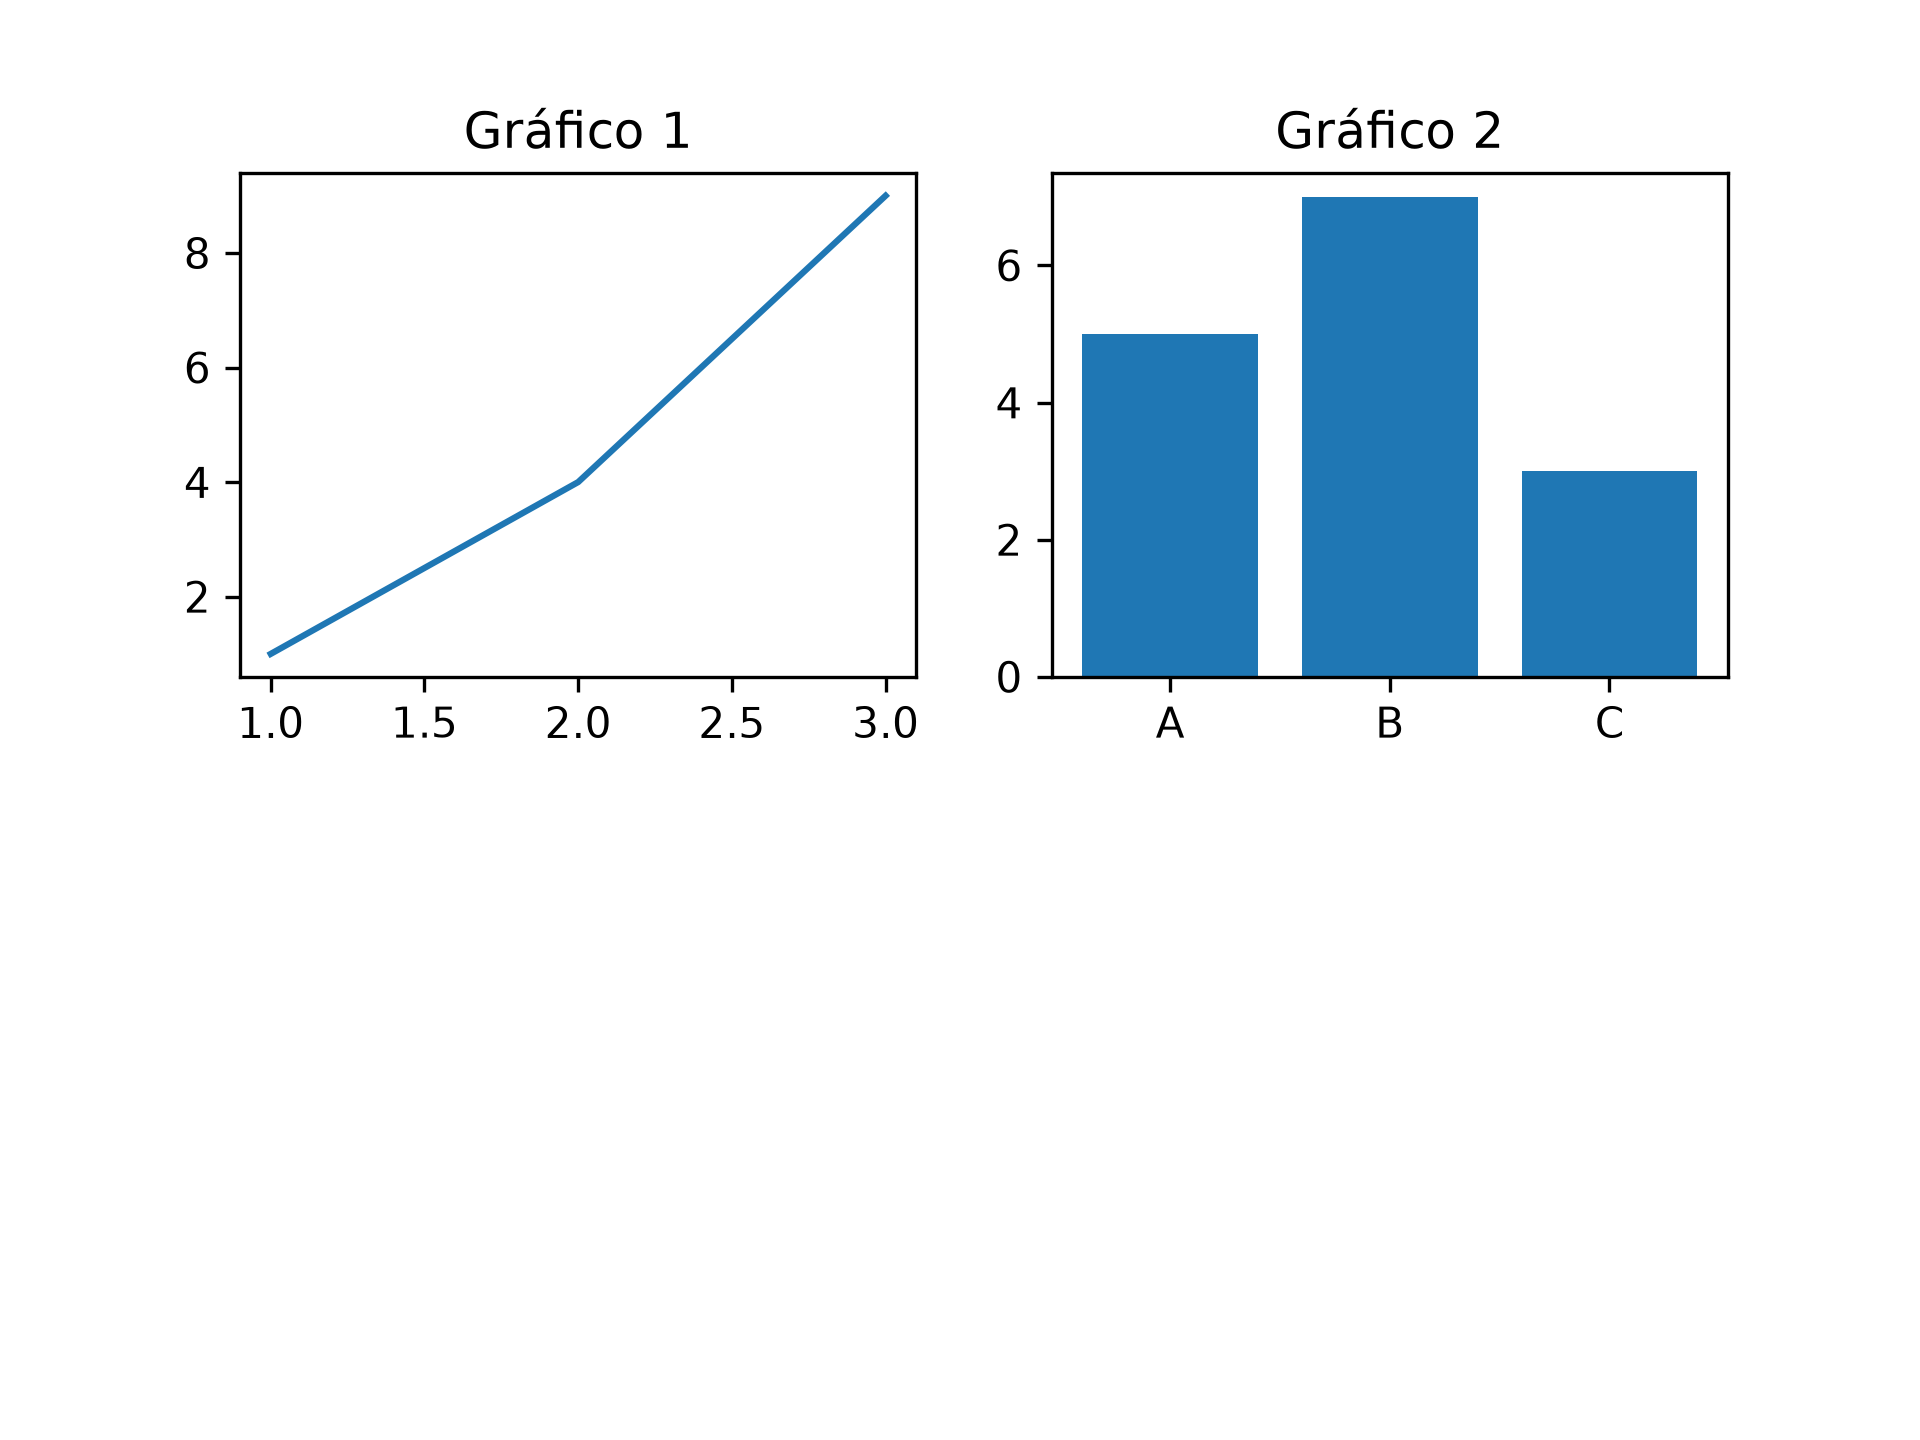
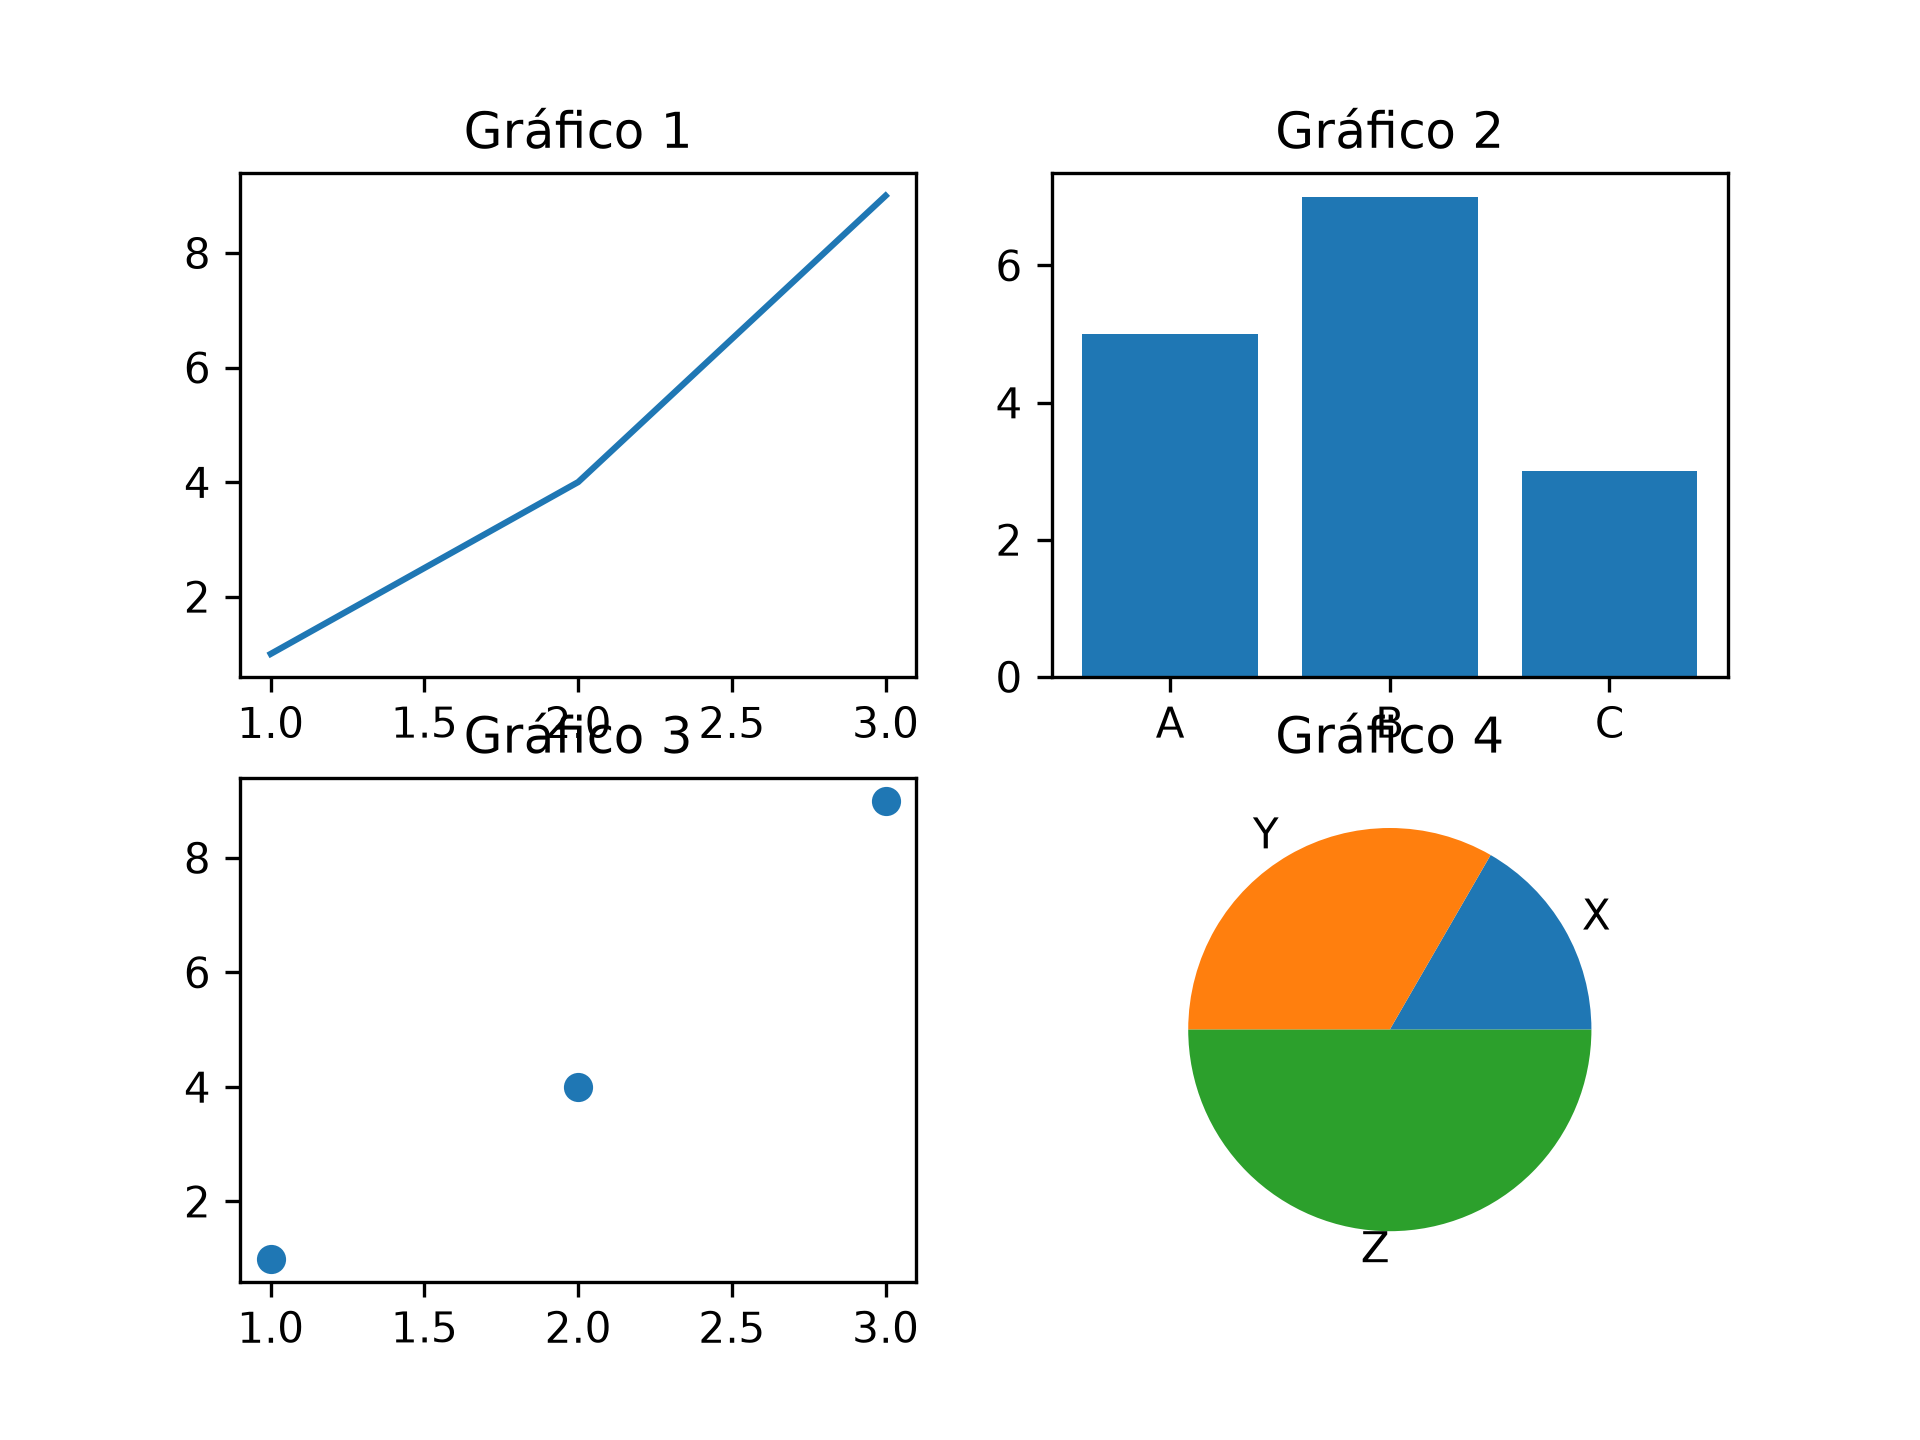
wip

diff --git a/sesion-6/graficos/subplot/main.py b/sesion-6/graficos/subplot/main.py
@@ -8,5 +8,13 @@ plt.subplot(2, 2, 2)
 plt.bar(["A", "B", "C"], [5, 7, 3])
 plt.title("Gráfico 2")
 
+plt.subplot(2, 2, 3)
+plt.scatter([1, 2, 3], [1, 4, 9])
+plt.title("Gráfico 3")
+
+plt.subplot(2, 2, 4)
+plt.pie([10, 20, 30], labels=["X", "Y", "Z"])
+plt.title("Gráfico 4")
+
 plt.savefig("graficos.png", dpi=300)
 plt.show()
